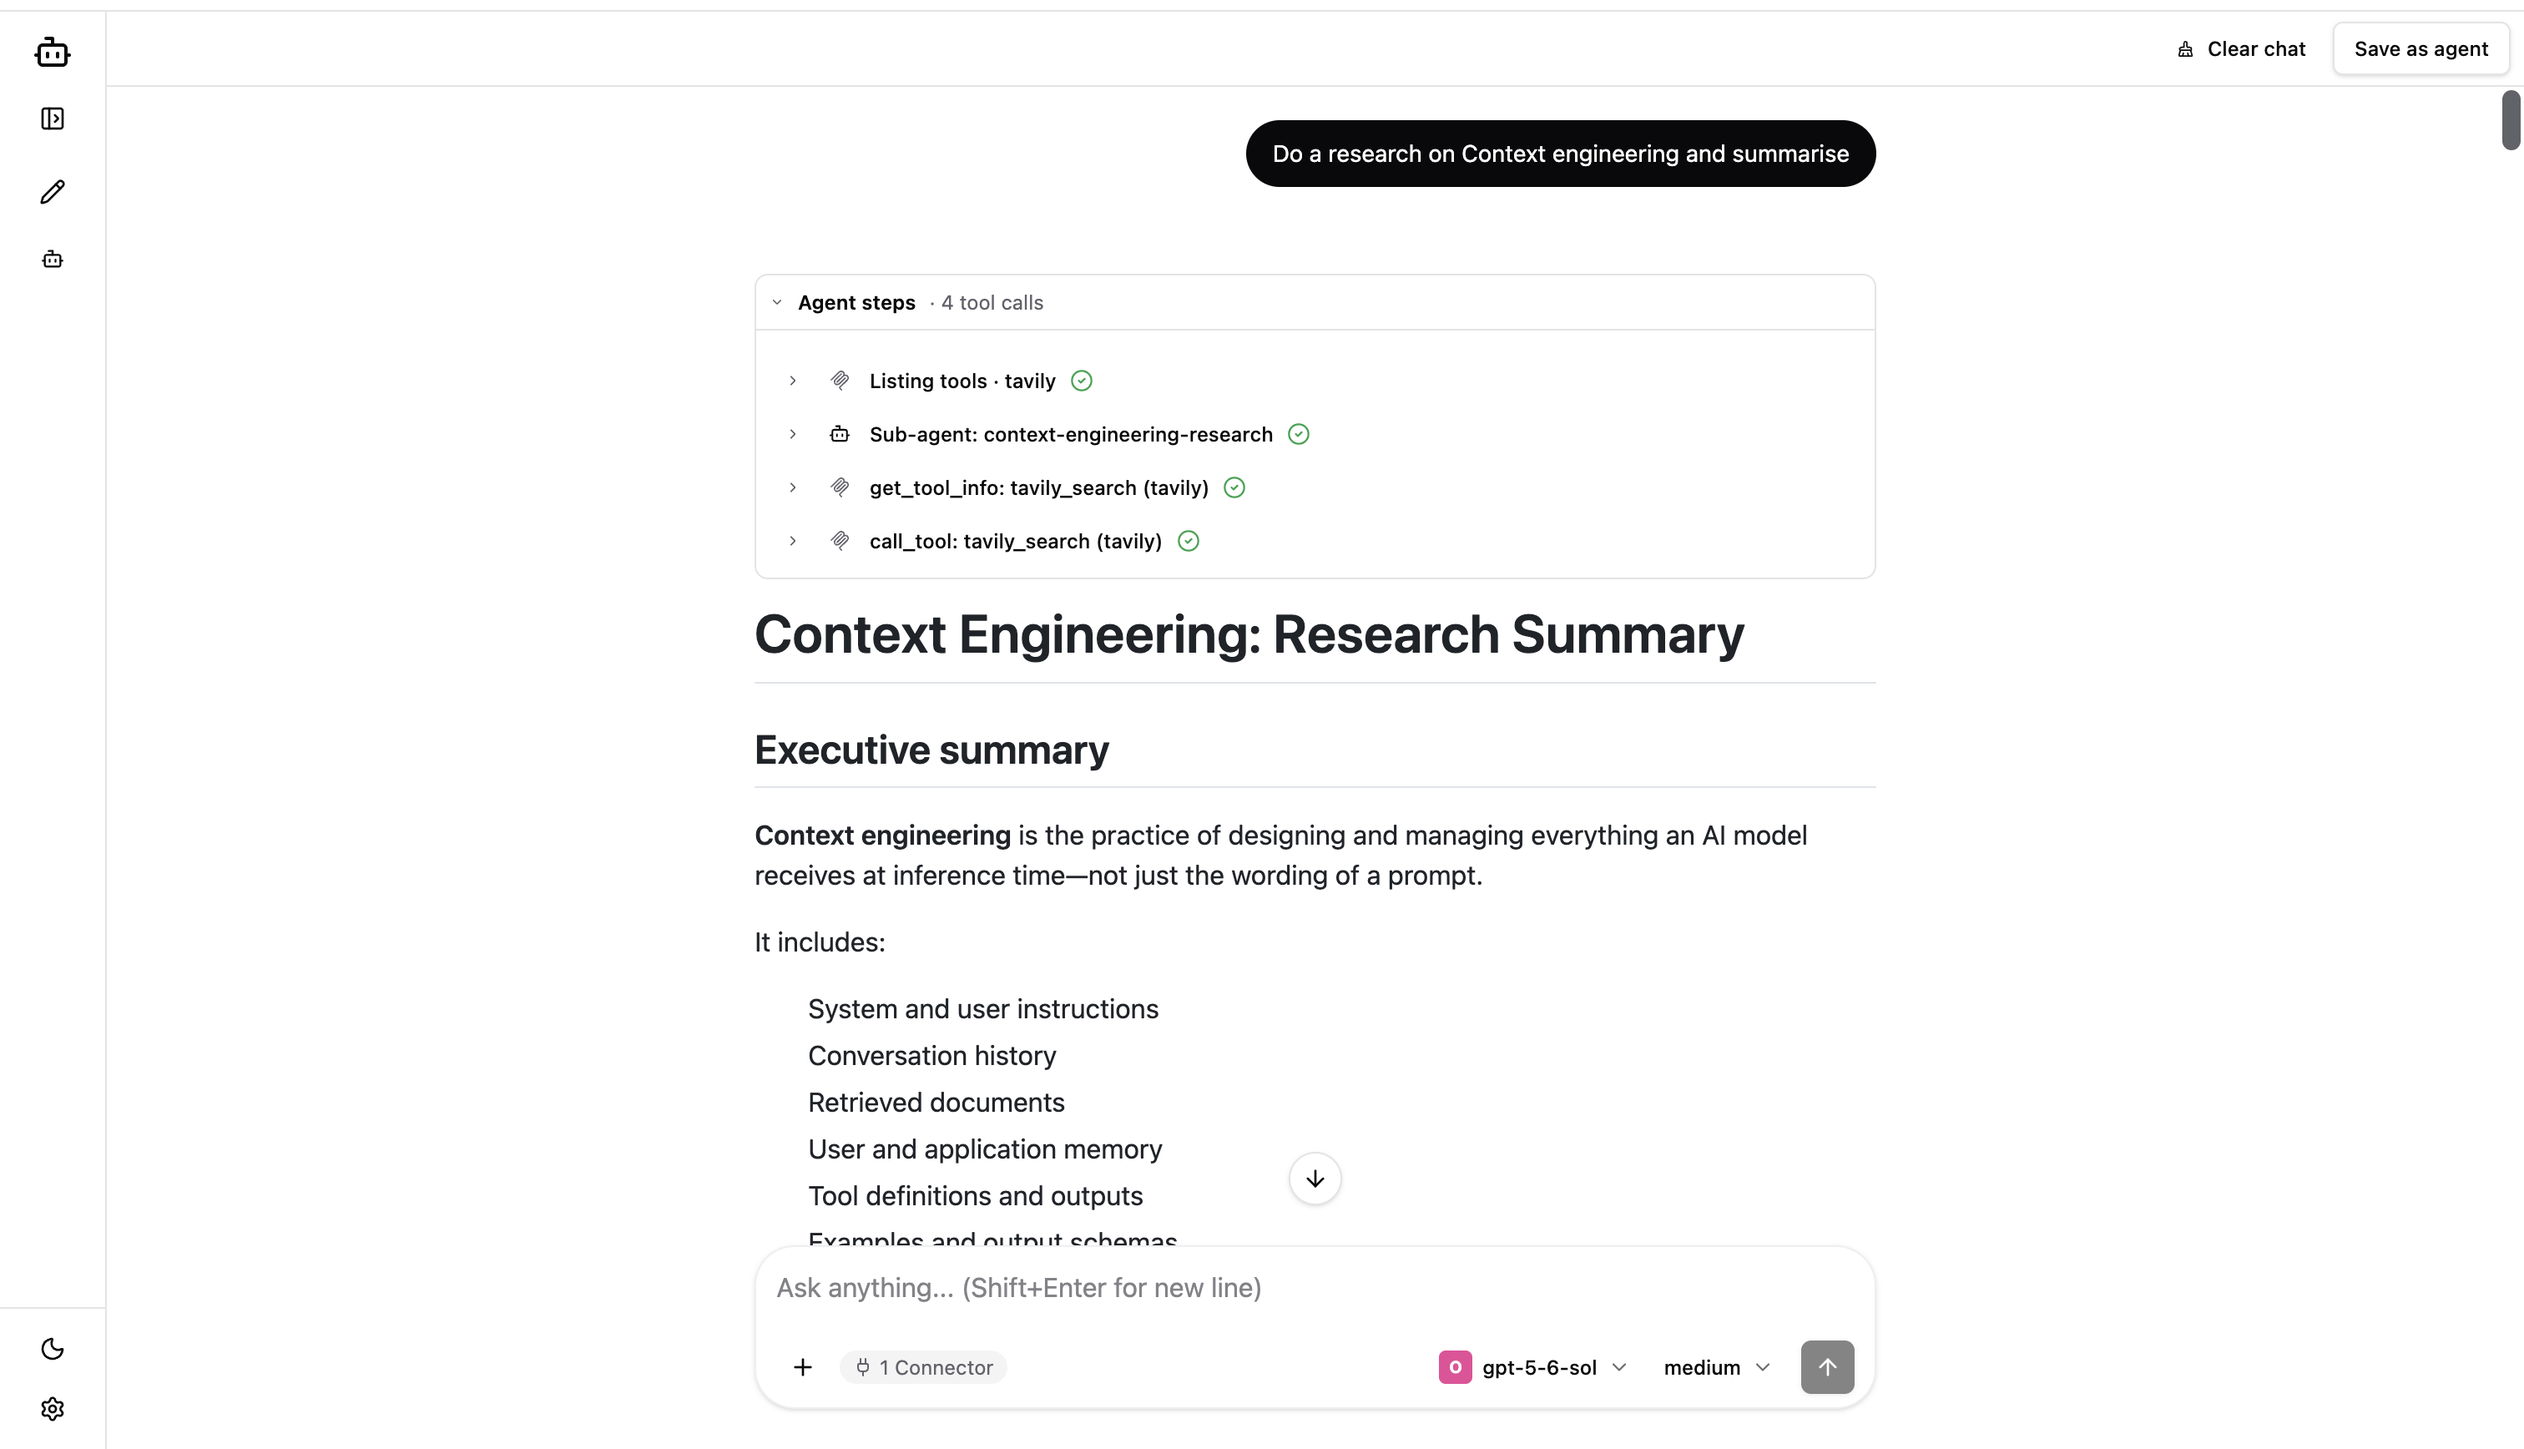
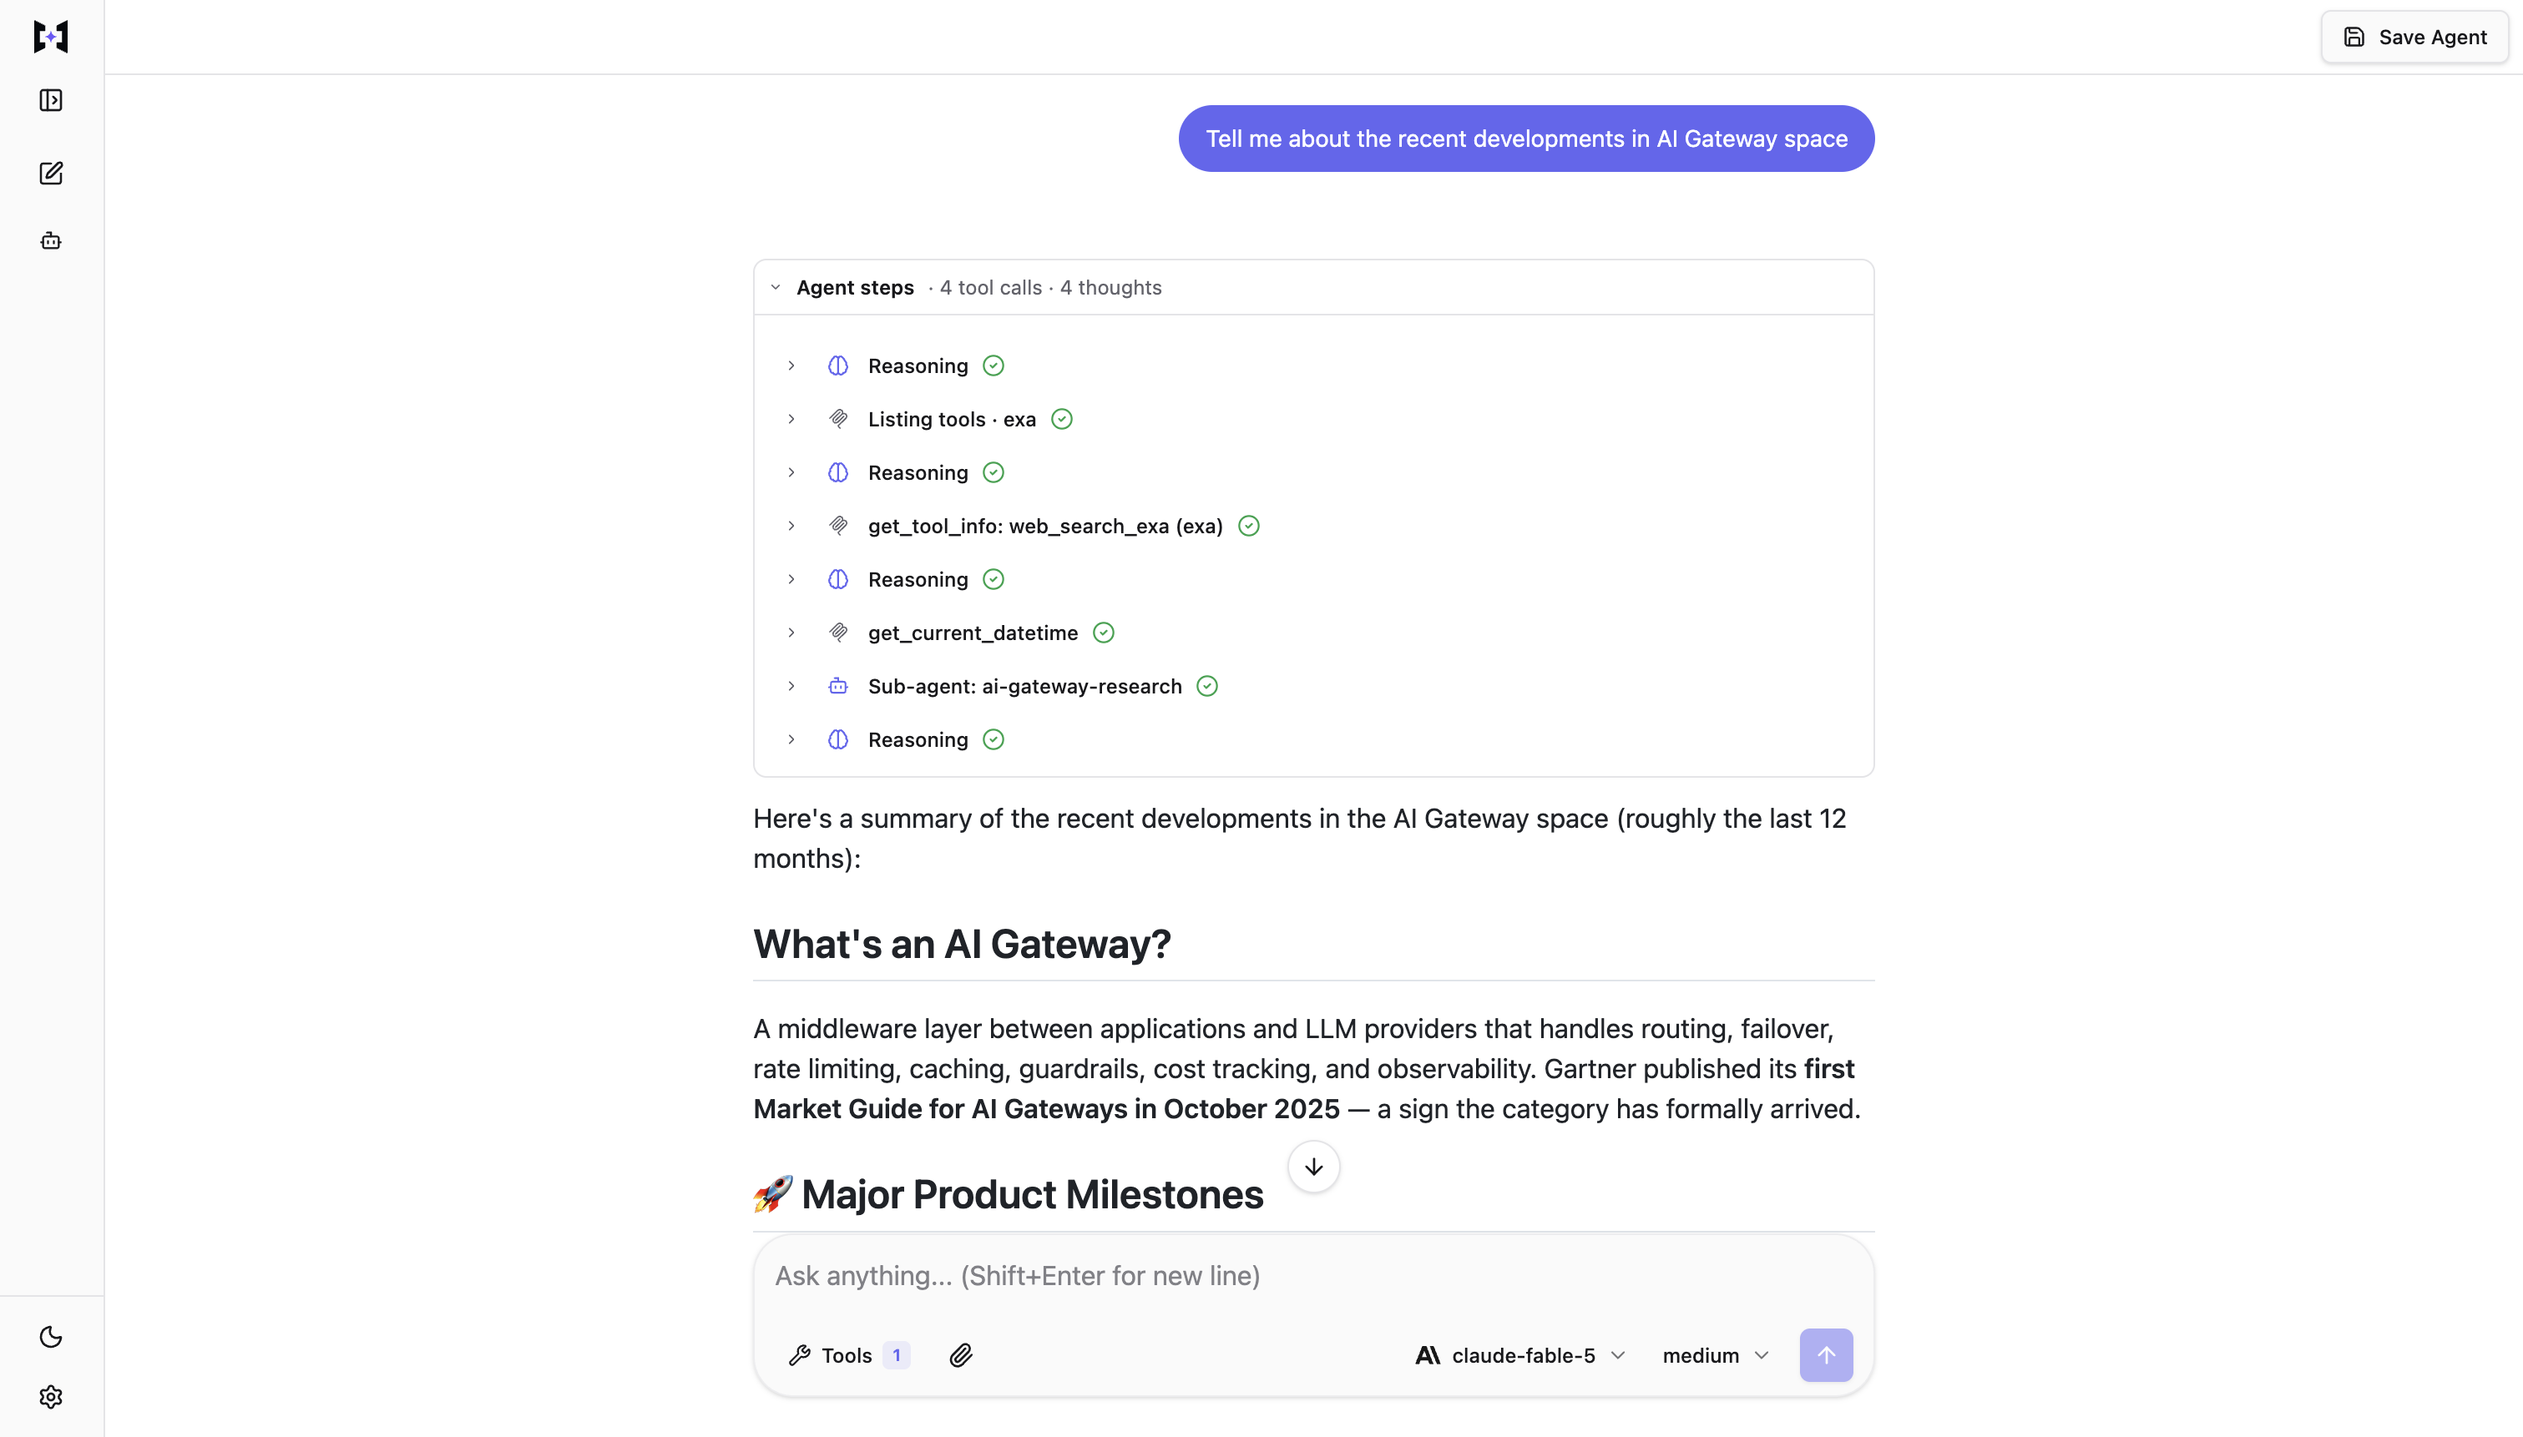
docs(readme): make the sandbox optional in the first-agent example + refresh hero (#269)
* docs(readme): make sandbox optional; refresh hero to the latest chat UI

Reframe the first-agent example so the core flow needs only a model key + the no-auth Exa connector — Generative UI renders the interactive brief inline. Move the Daytona sandbox + web-artifacts-builder skill into an optional callout. Replace the hero screenshot with the current chat UI (expanded agent steps, Tools menu, Save Agent).

* docs(readme): simplify first-agent intro sentence

---------

diff --git a/README.md b/README.md
@@ -106,35 +106,35 @@ See the [chart README](charts/trueforge/README.md) (including [`configs.oidc`](c
 
 ## Build your first agent
 
-Full walkthrough: [Quickstart](https://trueforge.dev/quickstart). The example below builds a **web research briefer** — it searches the web, fans out to parallel subagents, and renders an interactive brief.
+Full walkthrough: [Quickstart](https://trueforge.dev/quickstart). The example below builds a **web research briefer** — it searches the web, fans out to parallel subagents, and renders an interactive brief. To get started, you also need a model key.
 
 1. **Add a model provider** - **Settings → Models**, pick a provider, paste your API key.
 
    ![Configure a model provider](./docs/images/quickstart-models.png)
 
-2. **Connect a web-search tool** - **Settings → Connectors**, connect **Exa** (no auth). Then under **Settings → Skills**, enable **web-artifacts-builder** (skills run in a sandbox).
+2. **Connect a web-search tool** - **Settings → Connectors**, connect **Exa** (no auth needed).
 
-   ![Connect Exa in Settings → Connectors](./docs/images/quickstart-connectors.png)
+   ![Connect Exa](./docs/images/quickstart-connectors.png)
 
-3. **Add a sandbox** - **Settings → Sandbox providers**, configure **Daytona** (the provider supported today).
-
-   ![Daytona sandbox connected](./docs/images/quickstart-sandbox-connected.png)
-
-4. **Compose and run** - pick a model, enable Exa and web-artifacts-builder, then send a prompt:
+3. **Compose and run** - pick a model, enable Exa, and send:
 
    > Research the current state of open-source vector databases. Compare Qdrant, Weaviate, and Milvus on performance, features, and licensing, then write a one-page brief with sources.
 
-   The agent searches with Exa, delegates to parallel subagents, and renders an interactive brief.
+   The agent searches with Exa, delegates to parallel subagents, and renders an interactive brief inline. Generative UI is on by default, so no extra setup is needed.
 
    ![The agent's interactive research brief](./docs/images/quickstart-chat-result.png)
 
-5. **Save as an agent** - click **Save Agent** and name it `web-research-brief`.
+4. **Save as an agent** - click **Save Agent** and name it `web-research-brief`.
 
    ![Save agent](./docs/images/quickstart-save-agent.png)
 
-6. **Find it in the Agent Library** - open **Agents Library**, then **Try** or **Edit**. In hosted mode with login enabled, agents created by anyone are visible to everyone - see [Agent Library](https://trueforge.dev/agent-library).
+5. **Find it in the Agent Library** - open **Agents Library**, then **Try** or **Edit**. In hosted mode with login enabled, agents created by anyone are visible to everyone - see [Agent Library](https://trueforge.dev/agent-library).
 
    ![Agents Library](./docs/images/quickstart-agents-library.png)
+
+> **Optional — run code, files, and richer skills.** To let the agent run code or use skills like **web-artifacts-builder** (which packages the brief into a standalone, shareable HTML page), add a **Daytona** sandbox under **Settings → Sandbox providers**. Skills run in the sandbox.
+>
+> ![Daytona sandbox connected](./docs/images/quickstart-sandbox-connected.png)
 
 ## Architecture
 
